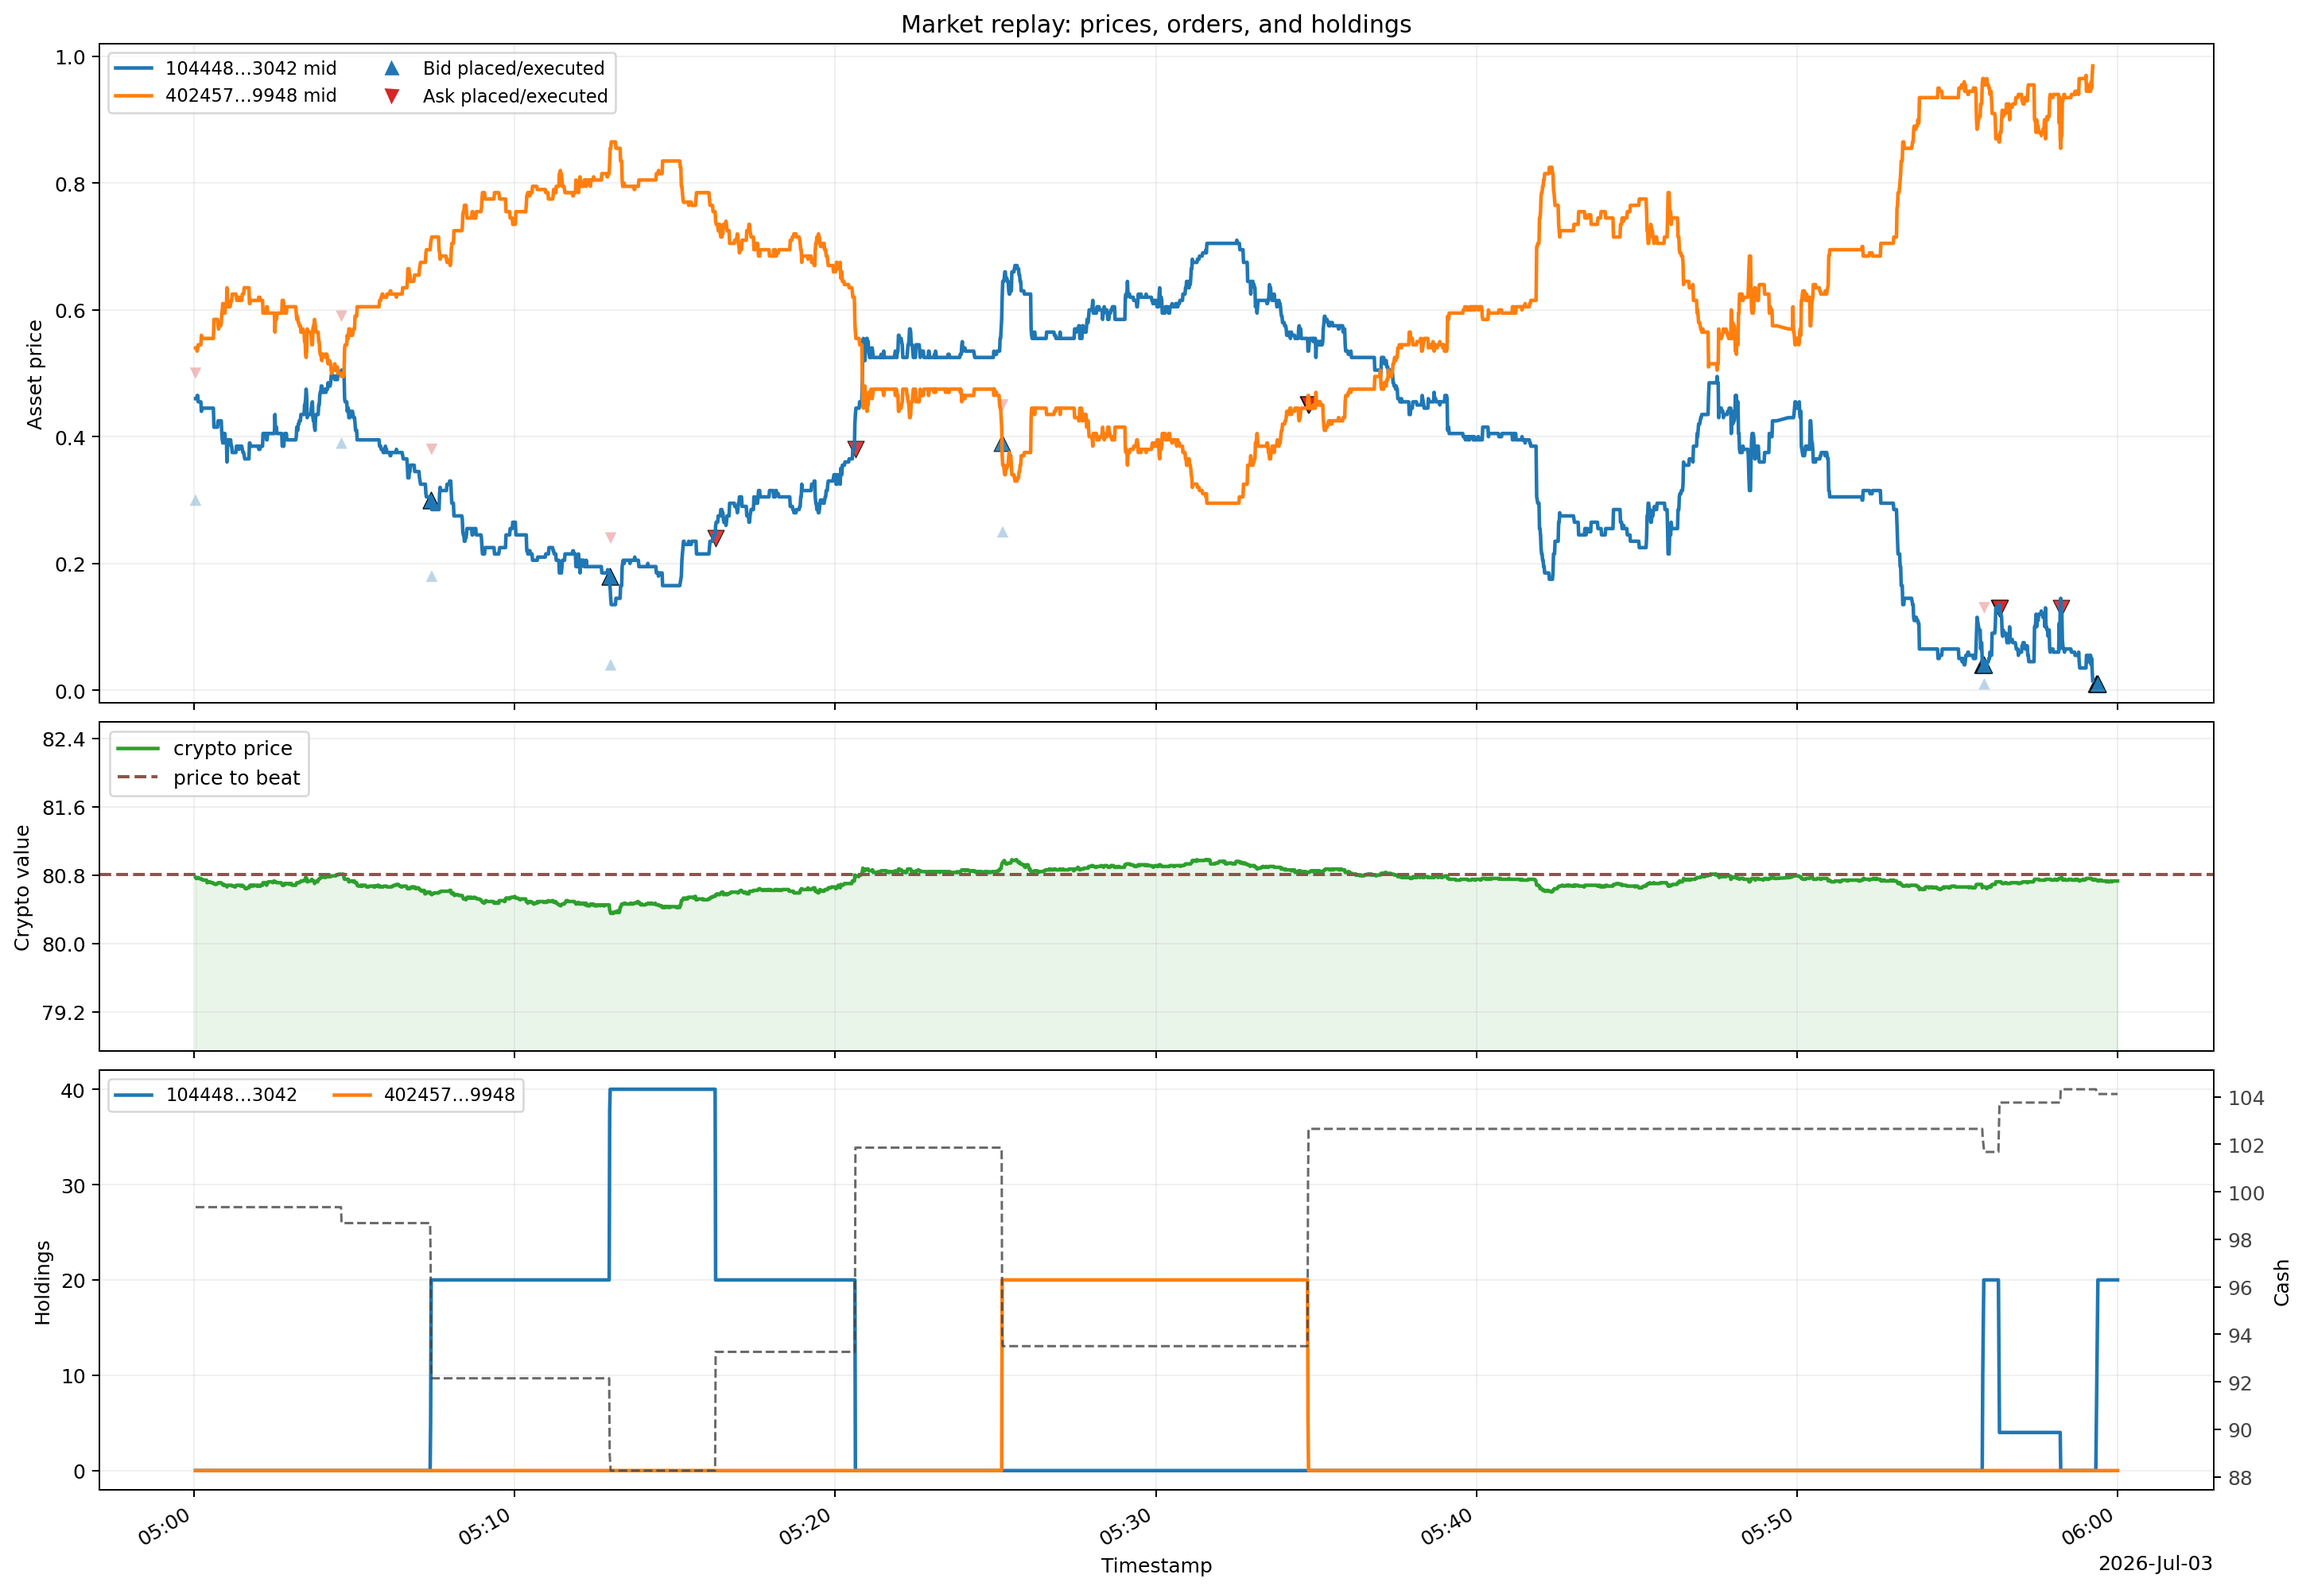
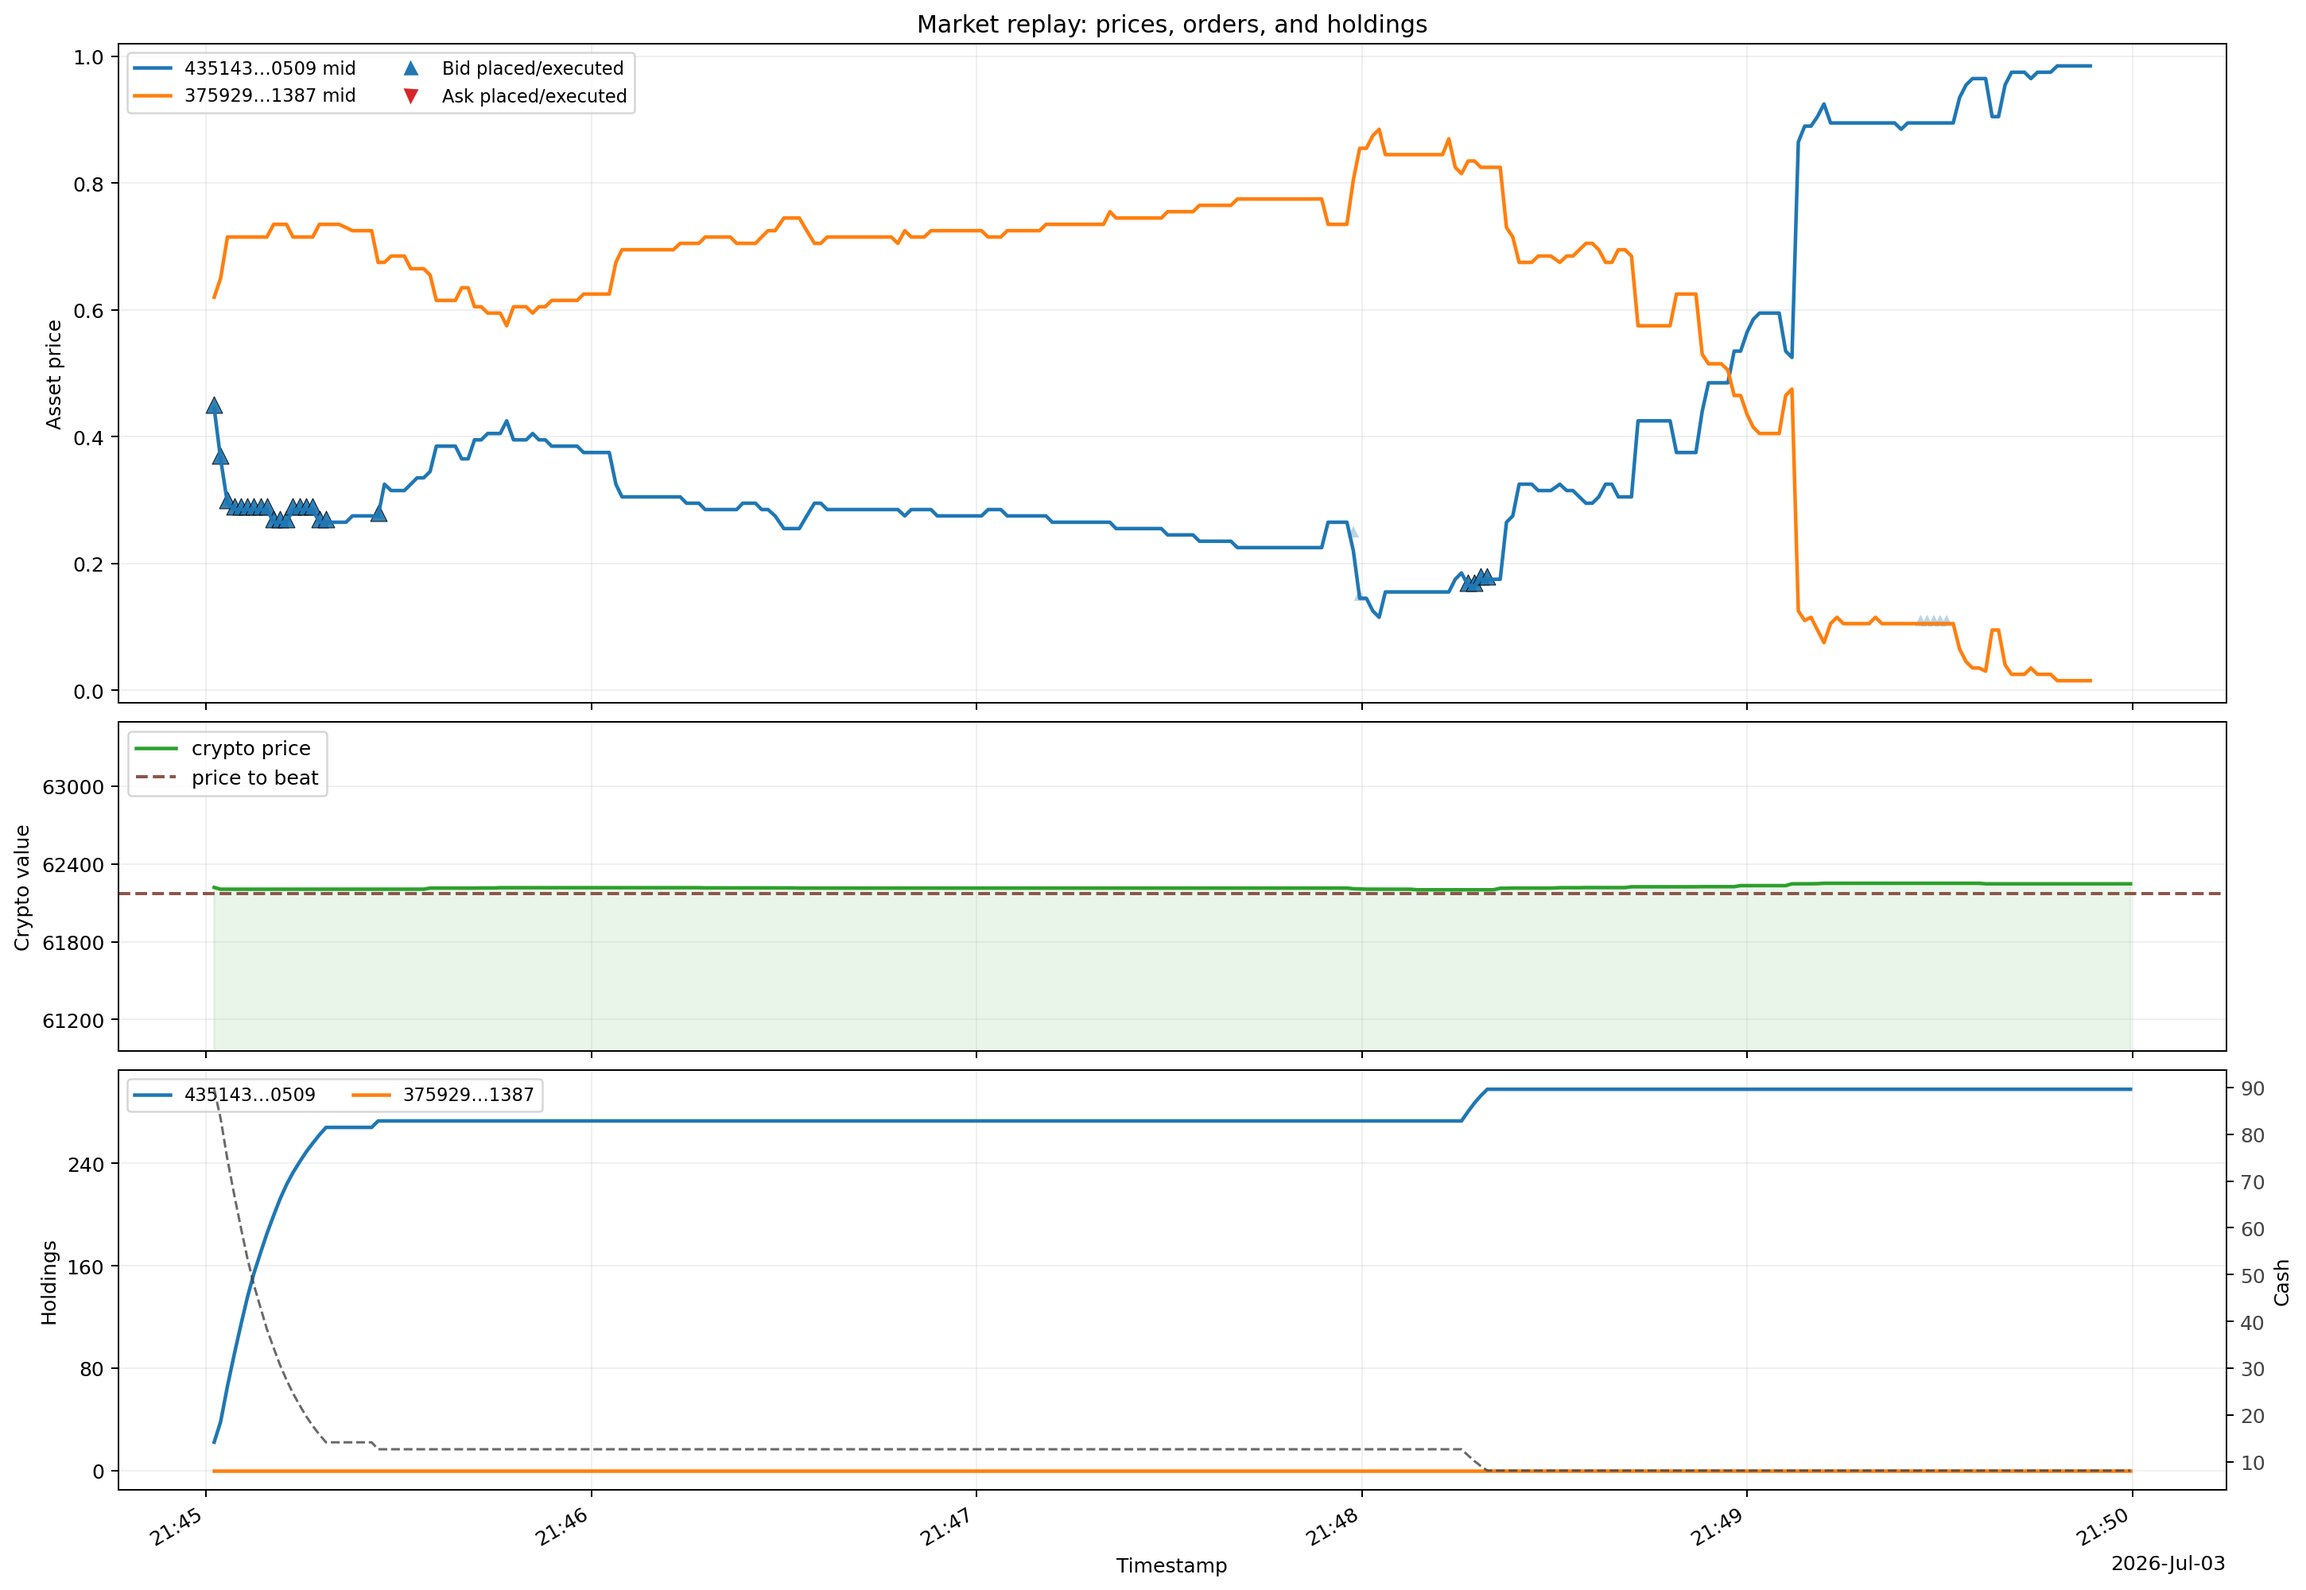
trying local ai  model

diff --git a/bot/gptbot.py b/bot/gptbot.py
@@ -91,7 +91,11 @@ class ProfitBot(masterbot):
     def _calculate_moving_average(self, window_size):
         if len(self.price_history) < window_size:
             return None
-        return sum(self.price_history[-window_size:]) / window_size
+        for i in range(len(self.price_history) - window_size + 1):
+            window = list(self.price_history)[i:i + window_size]
+            if any(price <= 0 for price in window):
+                return None
+        return sum(list(self.price_history)[-window_size:]) / window_size
 
     def _place_order(self, asset_id, order_action, price):
         min_order_size, tick_size = self._get_asset_limits(asset_id)
@@ -165,7 +169,6 @@ class ProfitBot(masterbot):
 
         market_data = self._build_market_snapshot(asset_ids[:2])
         if market_data is None:
-            print("Market data snapshot is None, skipping this tick.")
             return
 
         current_price_up = market_data[0]["mid_price"]
@@ -178,10 +181,8 @@ class ProfitBot(masterbot):
 
         if short_ma is not None and long_ma is not None:
             if short_ma > long_ma:  # Buy signal
-                print(f"Buy signal detected. Placing order for asset {asset_ids[0]} at price {market_data[0]['ask']}")
                 self._place_order(asset_ids[0], OrderAction.BID, market_data[0]["ask"])
             elif short_ma < long_ma:  # Sell signal
-                print(f"Sell signal detected. Placing order for asset {asset_ids[1]} at price {market_data[1]['ask']}")
                 self._place_order(asset_ids[1], OrderAction.BID, market_data[1]["ask"])
 
         self._manage_existing_orders()

diff --git a/evaluator/replay_engine.py b/evaluator/replay_engine.py
@@ -177,7 +177,7 @@ class replay_engine:
                 if analytics is not None:
                     
                     analytics_path = output_dir / f"{gz_file.stem}.analytics.json"
-                    #analytics_path.write_text(json.dumps(analytics, indent=2, default=_json_default), encoding="utf-8")
+                    analytics_path.write_text(json.dumps(analytics, indent=2, default=_json_default), encoding="utf-8")
                     print(f"Saved analytics to {analytics_path}")
                     outcomes.append((round(analytics["final_cash"], 2), analytics_path))
             #except Exception as e:
